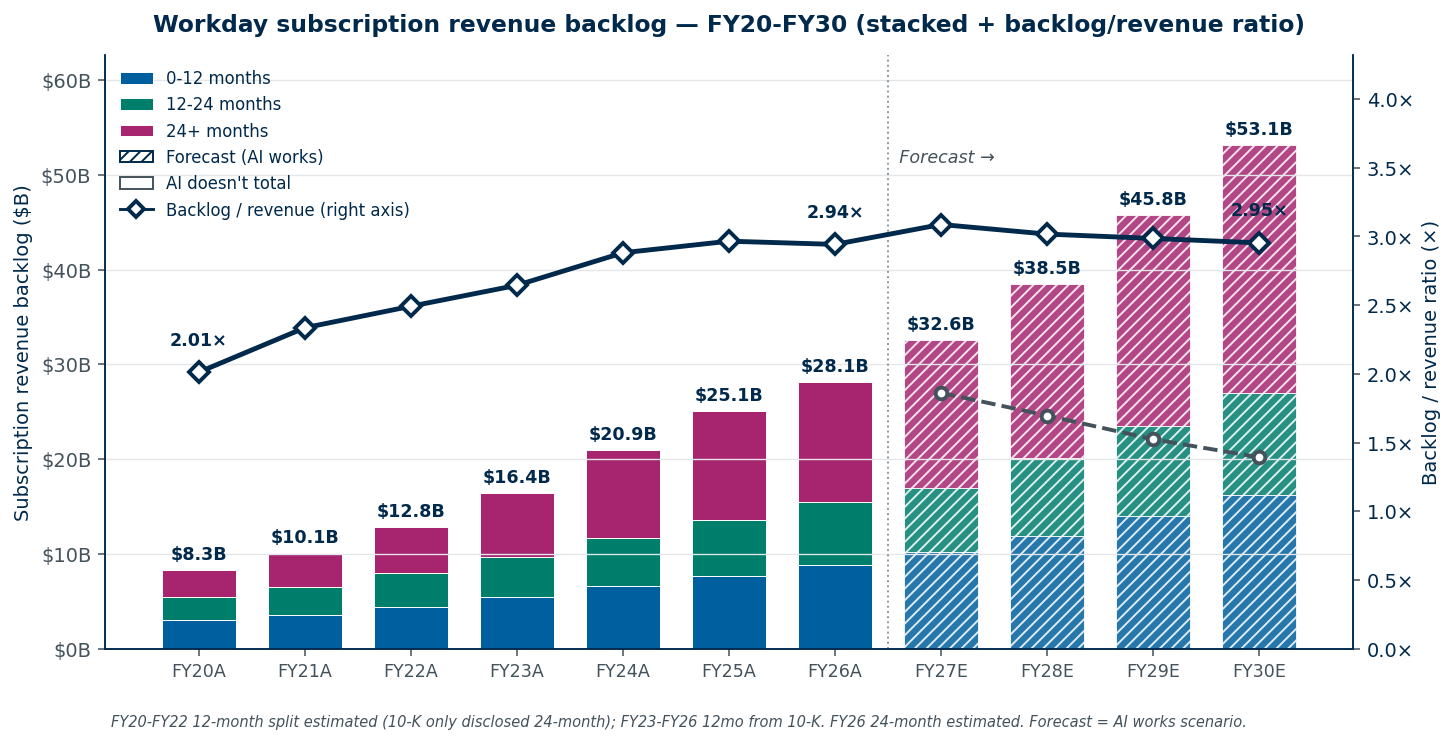
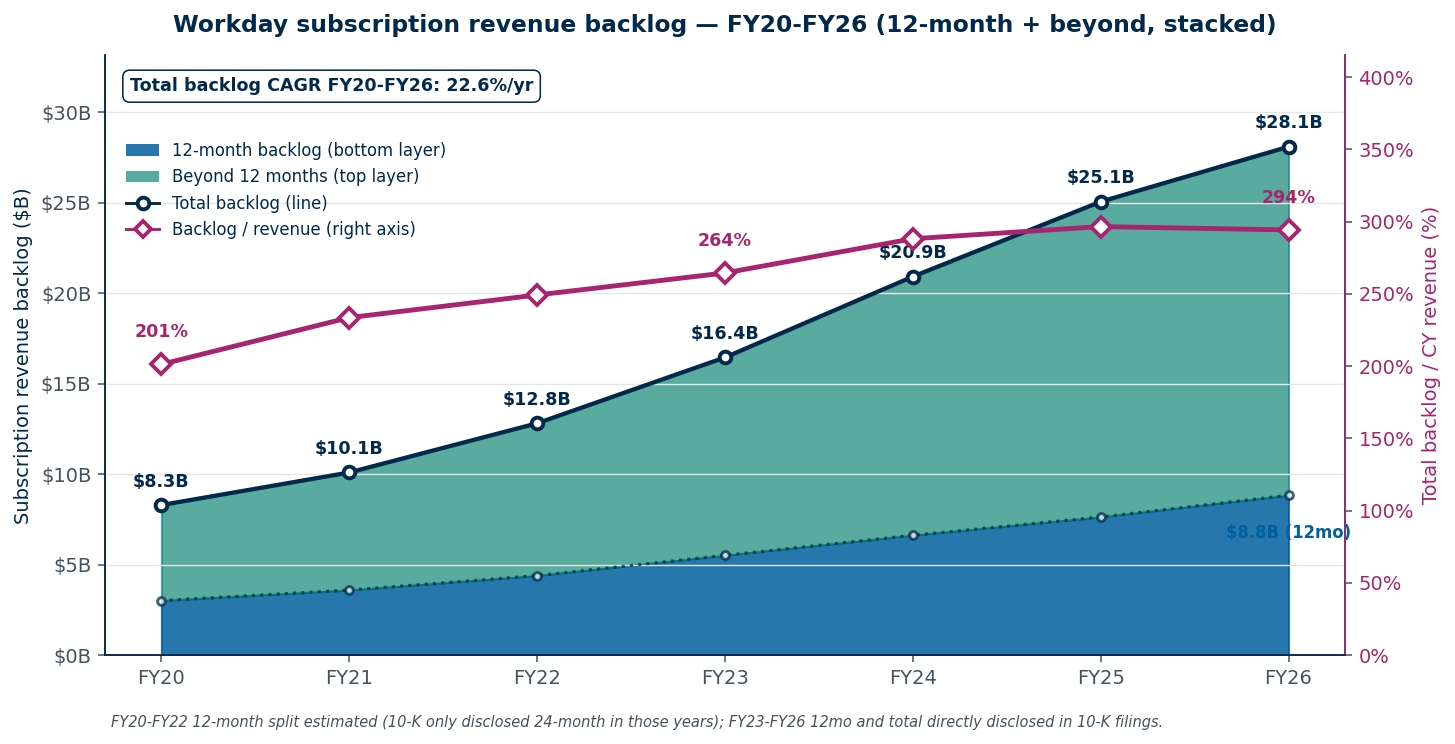
Backlog chart: historical-only stacked area + backlog/revenue % on secondary axis

diff --git a/brief.html b/brief.html
@@ -727,6 +727,6 @@
 <p><em>Sources: Workday FY26 10-K (period ended January 31, 2026); Workday Q4 FY26 earnings release and prepared remarks; FAD 2023 / 2024 / 2025 financial analyst day presentations; build_model.py outputs in <code>data/deck_data.json</code>; wiki/00_thesis.md, wiki/10_competitive_landscape.md, wiki/20_ai_winning_cases.md, wiki/25_contribution_graph.md, wiki/30_investor_perspectives/</em>, wiki/35_hard_bear.md, wiki/40_vc_rebuttal.md, wiki/50_fde_moat.md, wiki/60_attach_rates.md, wiki/70_customer_voices.md, wiki/80_microsoft_threat.md, wiki/90_backlog_quality.md, wiki/100_eschenbach.md; audit/FACT_CHECK.md, audit/MODEL_AUDIT.md.*</p>
 <p><em>Charts generated by <code>scripts/make_charts.py</code> and <code>scripts/make_price_chart.py</code>, saved to <code>charts/</code>. Market cap $33.24B, EV $31.62B; the $3.82B debt convention includes ~$834M of operating-lease liabilities (Senior Notes alone are $2.99B). Per-share targets are computed against terminal diluted shares from the projection.</em></p>
 <div class="footer">JAOD &amp; (mainly) Claude · May 20, 2026 · <a href="index.html">Home</a></div>
-<div class="last-updated">Last updated: 2026-05-20 18:47 ET</div>
+<div class="last-updated">Last updated: 2026-05-20 18:48 ET</div>
 </body>
 </html>

diff --git a/assumptions.html b/assumptions.html
@@ -507,6 +507,6 @@
 <p>The answer the model gives is <strong>+144% over 4 years (~25% IRR)</strong> including capital return. The worst single scenario produces +18%. The genuinely hard bear (see wiki/35_hard_bear.md) produces -50%, at ~10-15% probability — included inside the 30% What Goes Wrong weight.</p>
 <p><strong>The numbers are the floor of the case, not the case itself.</strong> The case is in the brief — the disclosed AI ARR trajectory, the FDE moat, the time-to-stand-up-a-new-product advantage, the SBC unlock — and the model is what supports the conclusion that even if we're wrong about the case, the entry-price math protects us.</p>
 <div class="footer">JAOD &amp; (mainly) Claude · May 20, 2026 · <a href="index.html">Home</a></div>
-<div class="last-updated">Last updated: 2026-05-20 18:47 ET</div>
+<div class="last-updated">Last updated: 2026-05-20 18:48 ET</div>
 </body>
 </html>

diff --git a/addendum.html b/addendum.html
@@ -758,6 +758,6 @@
 <hr />
 <p><em>Sources: Workday FY26 10-K (period ended January 31, 2026); FY25 10-K, FY24 10-K (for prior expansion-vs-new disclosures); <code>data/deck_data.json</code> blocks <code>revenue_mix</code>, <code>new_vs_expansion</code>, <code>product_mix_est</code>, <code>customer_size_mix_est</code>, <code>hist</code>, scenario blocks; <code>wiki/30_investor_perspectives/</code> (Buffett, Ackman, Smith, Wood, Marks, Druckenmiller); CFO Zane Rowe investor-day commentary FY25/FY26 (customer-tier framing). Estimates flagged explicitly where used.</em></p>
 <div class="footer">JAOD &amp; (mainly) Claude · May 20, 2026 · <a href="index.html">Home</a></div>
-<div class="last-updated">Last updated: 2026-05-20 18:47 ET</div>
+<div class="last-updated">Last updated: 2026-05-20 18:48 ET</div>
 </body>
 </html>

diff --git a/backlog.html b/backlog.html
@@ -313,6 +313,6 @@
 <p>Backlog definition (consistent across all 10-Ks): <em>"Our subscription revenue backlog, which is also referred to as remaining performance obligations for subscription contracts, represents contracted subscription services revenues that have not yet been recognized and includes billed and unbilled amounts."</em></p>
 <p>Forward projection numbers derived from the model at <code>WDAY_Model.xlsx</code>. Disclosure: Author has spoken with investors who own this stock but has not discussed it with anyone invested in the past 6 months.</p>
 <div class="footer">JAOD &amp; (mainly) Claude · May 20, 2026 · <a href="index.html">Home</a></div>
-<div class="last-updated">Last updated: 2026-05-20 18:47 ET</div>
+<div class="last-updated">Last updated: 2026-05-20 18:48 ET</div>
 </body>
 </html>

diff --git a/ic_qa.html b/ic_qa.html
@@ -214,6 +214,6 @@
 </ol>
 <p>The trade is alive but undersized relative to the analyst's framing. The interrogation surfaced three real concessions — the 60/40 Bhusri walking to 50/50, the buyback execution risk pulling WGW TSR from -5% to -18%, and the same-store seat growth approximately zero — that don't kill the position but materially compress the asymmetry the brief asserts. The room agrees this is a defensible 3% starter in principle; in practice, with each PM funding independently, it lands closer to 2% with a hard re-vote in September.</p>
 <div class="footer">JAOD &amp; (mainly) Claude · May 20, 2026 · <a href="index.html">Home</a></div>
-<div class="last-updated">Last updated: 2026-05-20 18:47 ET</div>
+<div class="last-updated">Last updated: 2026-05-20 18:48 ET</div>
 </body>
 </html>

diff --git a/a16z_rebuttal.html b/a16z_rebuttal.html
@@ -236,6 +236,6 @@
 <hr />
 <p><em>Source documents: Workday FY26 10-K, Q4 FY26 prepared remarks Feb 24, 2026, Workday Rising 2025 keynote Sept 16, 2025, Andreessen Horowitz "Workday's Last Workday?" April 28, 2026. Disclaimer: Author has spoken with investors who own this stock but has not discussed it with anyone invested in the past 6 months.</em></p>
 <div class="footer">JAOD &amp; (mainly) Claude · May 20, 2026 · <a href="index.html">Home</a></div>
-<div class="last-updated">Last updated: 2026-05-20 18:47 ET</div>
+<div class="last-updated">Last updated: 2026-05-20 18:48 ET</div>
 </body>
 </html>

diff --git a/tearsheet.html b/tearsheet.html
@@ -221,6 +221,6 @@
 <p><em>Disclaimer: Author has spoken with investors who own this stock but has not discussed it with anyone invested in the past 6 months.</em></p>
 <p><em>Full brief: <code>WDAY_BRIEF.md</code>. Addendum: <code>WDAY_BRIEF_ADDENDUM.md</code>. Model: <code>WDAY_Model.xlsx</code>.</em></p>
 <div class="footer">JAOD &amp; (mainly) Claude · May 20, 2026 · <a href="index.html">Home</a></div>
-<div class="last-updated">Last updated: 2026-05-20 18:47 ET</div>
+<div class="last-updated">Last updated: 2026-05-20 18:48 ET</div>
 </body>
 </html>

diff --git a/index.html b/index.html
@@ -180,6 +180,6 @@
 <p><em>Disclaimer: Author has spoken with investors who own this stock but has not discussed it with anyone invested in the past 6 months.</em></p>
 
 <div class="footer">By JAOD &amp; (mainly) Claude · May 20, 2026 · Sources: Workday FY26 10-K, Q4 FY26 prepared remarks, FAD 2023–2025, model: <a href="WDAY_Model.xlsx">WDAY_Model.xlsx</a>.</div>
-<div class="last-updated">Last updated: 2026-05-20 18:47 ET</div>
+<div class="last-updated">Last updated: 2026-05-20 18:48 ET</div>
 </body>
 </html>

diff --git a/competitors.html b/competitors.html
@@ -334,6 +334,6 @@
 <li>Internal: <code>wiki/10_competitive_landscape.md</code>.</li>
 </ul>
 <div class="footer">JAOD &amp; (mainly) Claude · May 20, 2026 · <a href="index.html">Home</a></div>
-<div class="last-updated">Last updated: 2026-05-20 18:47 ET</div>
+<div class="last-updated">Last updated: 2026-05-20 18:48 ET</div>
 </body>
 </html>
